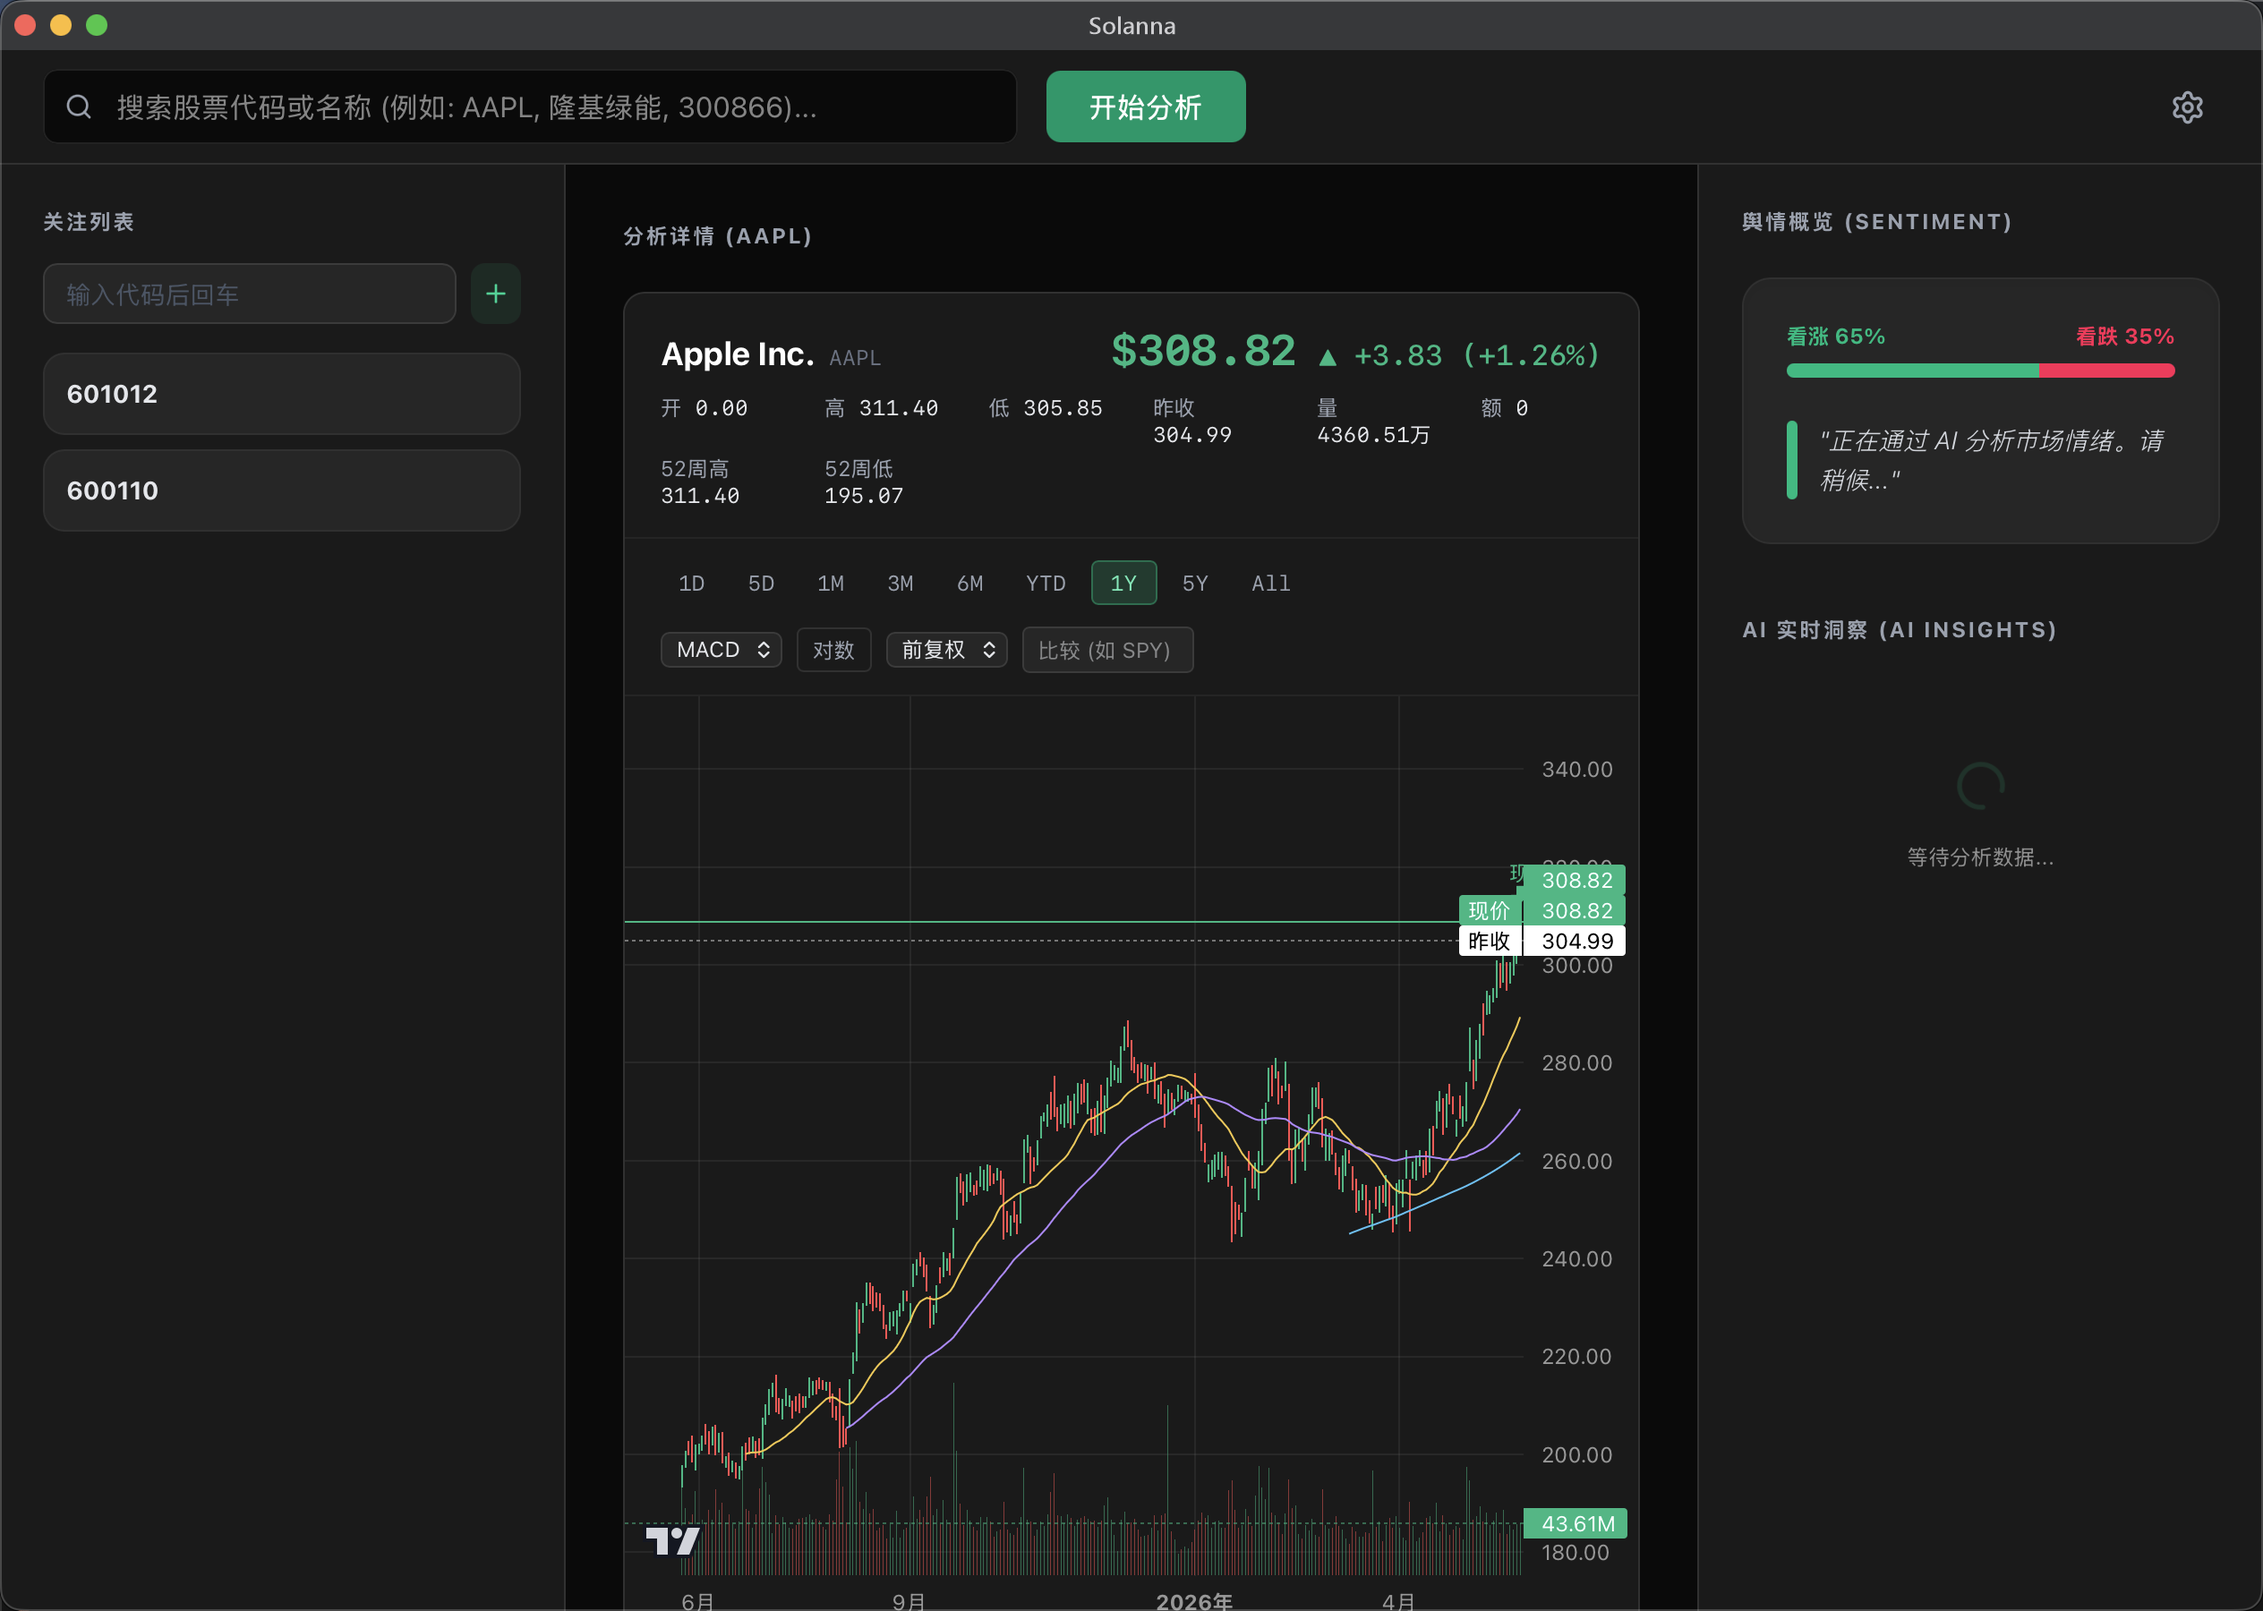
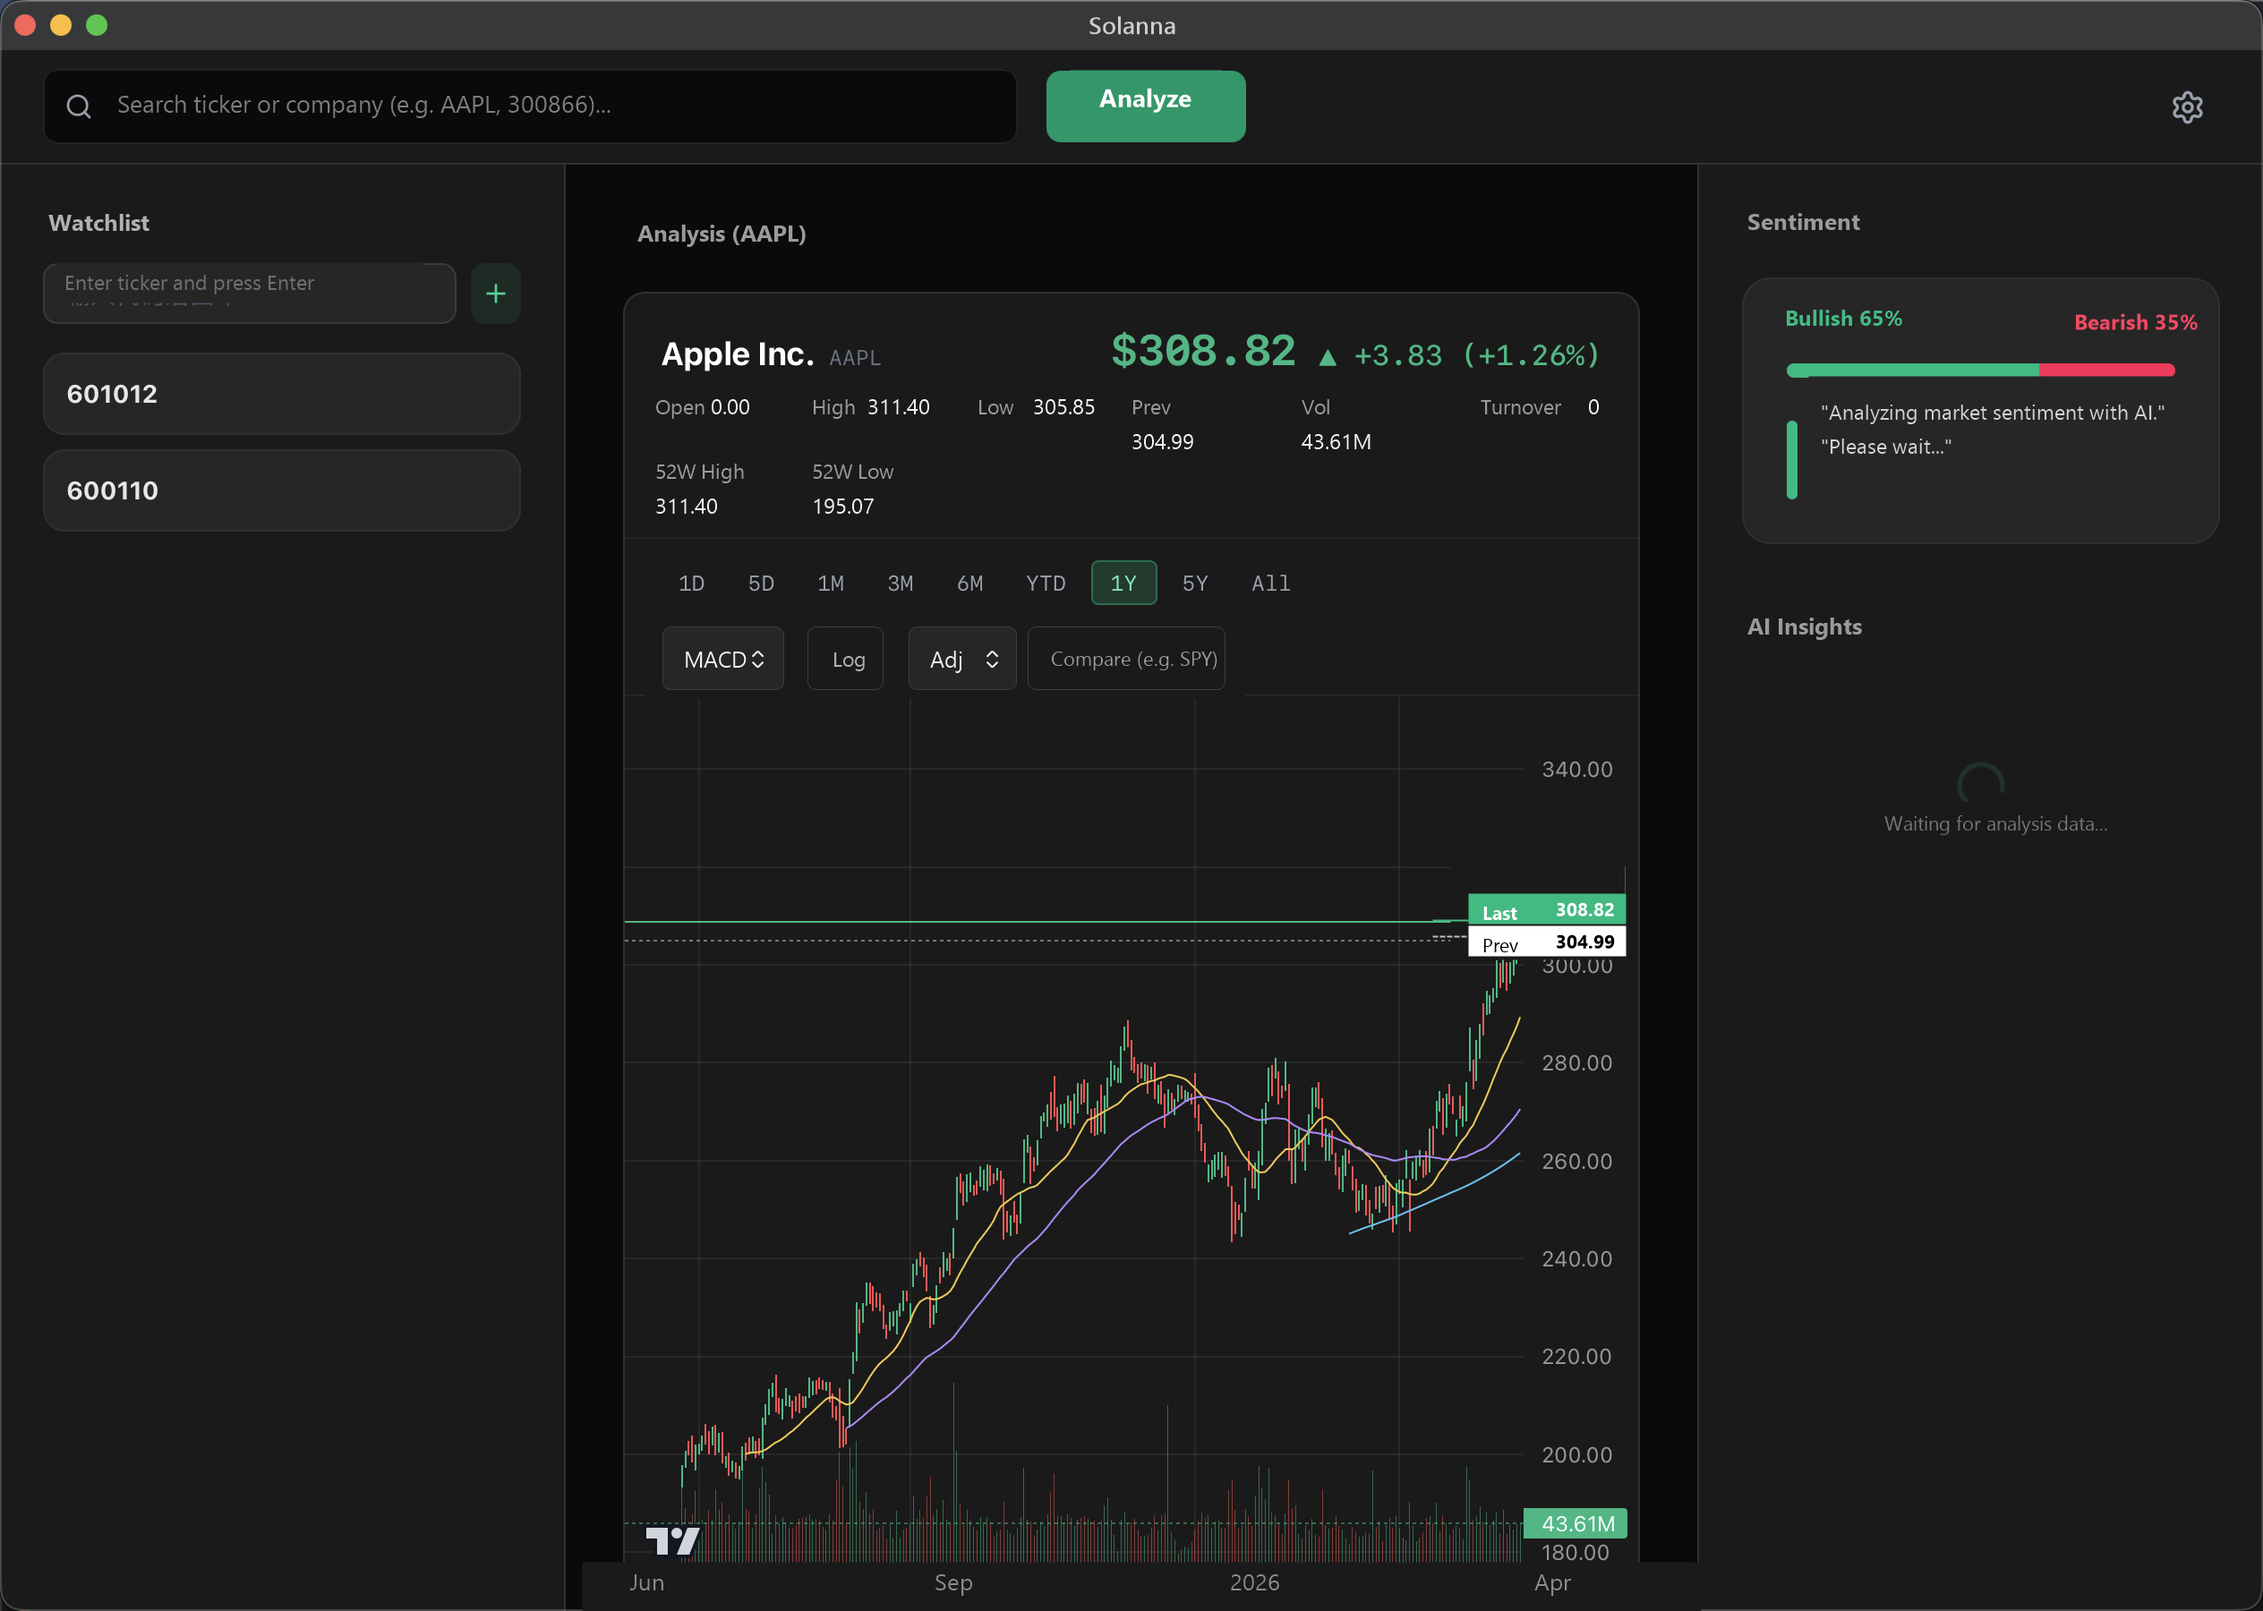
Use English dashboard screenshot and clean README punctuation

diff --git a/README.md b/README.md
@@ -1,4 +1,4 @@
-<p align="center">
+<p align="center">
   <img src="./public/solanna-logo.svg" alt="Solanna logo" width="88" />
 </p>
 
@@ -28,30 +28,30 @@ Built with **Tauri 2**, **React 19** and a compiled **Bun** sidecar, Solanna is 
 
 ### AI-powered research
 
-- **Sentiment analysis** — scans recent news for a ticker and returns a bullish/bearish breakdown with source-linked factor cards.
-- **Investor-master analysis** — runs up to 13 investor-master agents, each reasoning through its own framework, then synthesises their views into a consensus rating.
-- **Grounded chat** — answers questions using earnings reports, recent news and the quantitative metrics already loaded in the app, with citations back to the source.
-- **Bring your own model** — supports OpenAI, Anthropic, DeepSeek, GLM and local Ollama models. Models can be assigned per role.
+- **Sentiment analysis:** scans recent news for a ticker and returns a bullish/bearish breakdown with source-linked factor cards.
+- **Investor-master analysis:** runs up to 13 investor-master agents, each reasoning through its own framework, then synthesises their views into a consensus rating.
+- **Grounded chat:** answers questions using earnings reports, recent news and the quantitative metrics already loaded in the app, with citations back to the source.
+- **Bring your own model:** supports OpenAI, Anthropic, DeepSeek, GLM and local Ollama models. Models can be assigned per role.
 
 ### Quantitative analysis
 
-- **Composite quant score** — combines technical, fundamental and valuation signals, with volatility-aware adjustment.
-- **Natural-language screener** — translates plain-English criteria into a market-wide scan and shows how the query was interpreted before running it.
-- **Strategy backtesting** — reports total return, annualised return, trade count, buy-and-hold comparison, entries/exits and an equity curve.
-- **Master track record** — records directional calls locally and marks them to market so hit rates and an equal-weight NAV curve accumulate over time.
+- **Composite quant score:** combines technical, fundamental and valuation signals, with volatility-aware adjustment.
+- **Natural-language screener:** translates plain-English criteria into a market-wide scan and shows how the query was interpreted before running it.
+- **Strategy backtesting:** reports total return, annualised return, trade count, buy-and-hold comparison, entries/exits and an equity curve.
+- **Master track record:** records directional calls locally and marks them to market so hit rates and an equal-weight NAV curve accumulate over time.
 
 ### Market data and charts
 
-- **Interactive K-line charts** — MA/BOLL overlays, nine time ranges, MACD/RSI/KDJ/OBV/VWAP sub-charts, logarithmic scale, adjusted prices and benchmark comparison.
-- **Market overview** — major index bar, sector and concept leaderboards, fund-flow rankings and the Dragon-Tiger list for A-shares.
-- **Company profile (F10)** — business overview, revenue breakdown, shareholder structure and sector tags, loaded on demand.
-- **Redundant data sources** — quotes, candles, fundamentals and market data fall back across Tencent, Eastmoney, Sina and Yahoo.
+- **Interactive K-line charts:** MA/BOLL overlays, nine time ranges, MACD/RSI/KDJ/OBV/VWAP sub-charts, logarithmic scale, adjusted prices and benchmark comparison.
+- **Market overview:** major index bar, sector and concept leaderboards, fund-flow rankings and the Dragon-Tiger list for A-shares.
+- **Company profile (F10):** business overview, revenue breakdown, shareholder structure and sector tags, loaded on demand.
+- **Redundant data sources:** quotes, candles, fundamentals and market data fall back across Tencent, Eastmoney, Sina and Yahoo.
 
 ### Portfolio and workflow
 
-- **Portfolio tracking** — positions, live valuation, unrealised and daily P&L, and position weights, with currencies kept separate.
-- **Watchlist and price alerts** — quick-add symbols and receive system notifications when price thresholds are crossed.
-- **Local analysis history** — every analysis, deep analysis and screen is archived in SQLite and can be reopened in full.
+- **Portfolio tracking:** positions, live valuation, unrealised and daily P&L, and position weights, with currencies kept separate.
+- **Watchlist and price alerts:** quick-add symbols and receive system notifications when price thresholds are crossed.
+- **Local analysis history:** every analysis, deep analysis and screen is archived in SQLite and can be reopened in full.
 
 ## Installation
 
@@ -81,8 +81,8 @@ Windows SmartScreen may warn about unsigned executables. Choose **More info**, t
 
 ### Prerequisites
 
-- [Bun](https://bun.sh/) — package manager and sidecar runtime
-- [Rust](https://www.rust-lang.org/tools/install) — Tauri core
+- [Bun](https://bun.sh/): package manager and sidecar runtime
+- [Rust](https://www.rust-lang.org/tools/install): Tauri core
 - Platform dependencies required by [Tauri 2](https://v2.tauri.app/start/prerequisites/)
 
 ### Install and run
@@ -118,9 +118,9 @@ Solanna uses a strictly unidirectional three-layer architecture:
 React UI  ->  Tauri Core (Rust)  ->  Sidecar (Bun)
 ```
 
-- **Frontend (`src/`)** — React, TypeScript and Vite. All IPC goes through a single entry point; local history is stored in SQLite via `tauri-plugin-sql`.
-- **Tauri Core (`src-tauri/`)** — exposes one generic `invoke_sidecar` command, handles process lifecycle and keeps business logic out of Rust.
-- **Sidecar (`sidecar/`)** — a compiled Bun binary that scrapes news, computes quantitative metrics and communicates with AI providers.
+- **Frontend (`src/`):** React, TypeScript and Vite. All IPC goes through a single entry point; local history is stored in SQLite via `tauri-plugin-sql`.
+- **Tauri Core (`src-tauri/`):** exposes one generic `invoke_sidecar` command, handles process lifecycle and keeps business logic out of Rust.
+- **Sidecar (`sidecar/`):** a compiled Bun binary that scrapes news, computes quantitative metrics and communicates with AI providers.
 
 The `shared/` directory is the single source of truth for DTOs, CLI actions, provider profiles and market detection across all three layers.
 
@@ -180,3 +180,4 @@ Please report vulnerabilities privately through [GitHub Security Advisories](htt
 ## Disclaimer
 
 Solanna is a research and educational tool. Its output, including AI-generated ratings, master consensus, quantitative scores and backtest results, is not investment advice. Market data comes from public third-party sources and may be delayed, incomplete or incorrect. You are solely responsible for your investment decisions.
+
